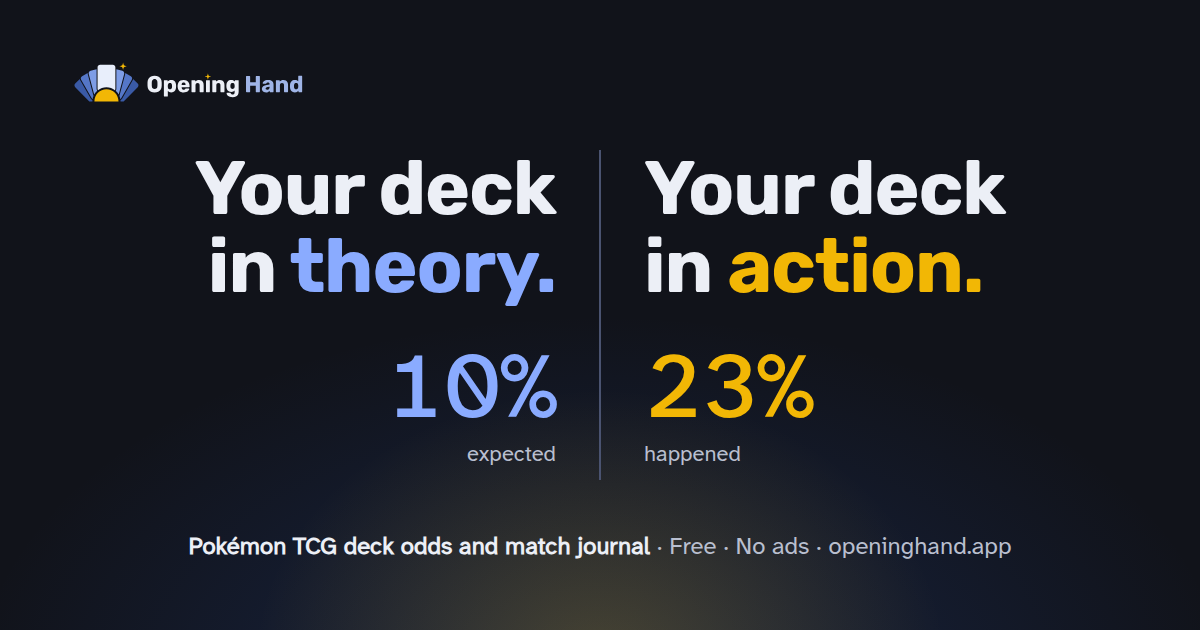
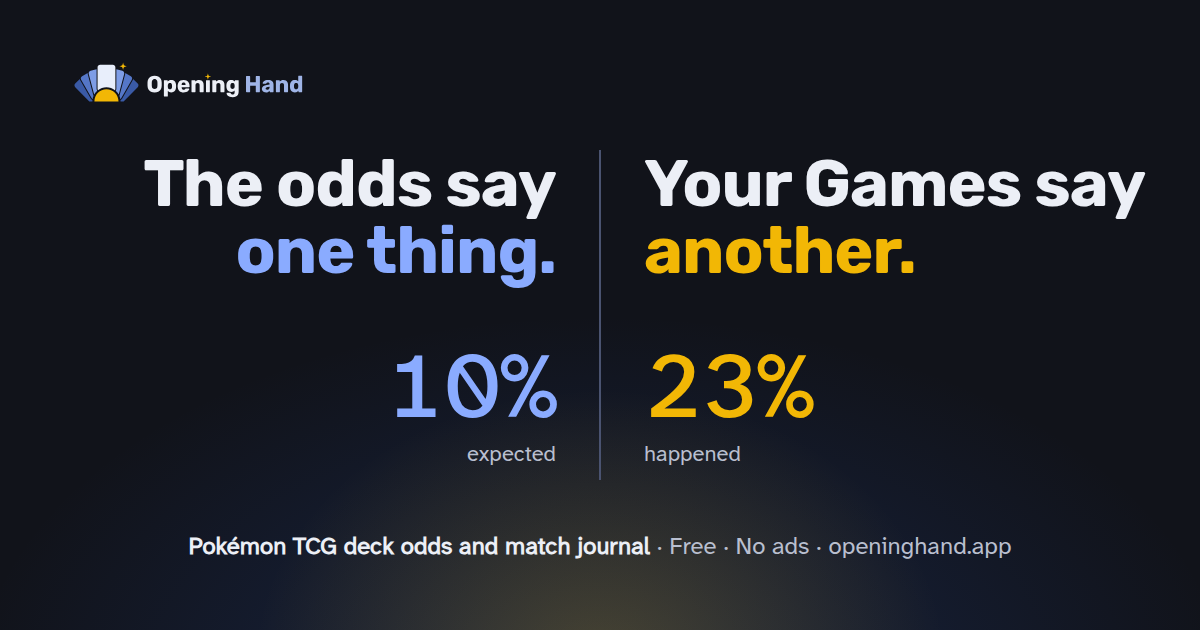
fix: headline

Changed region(s): [[0.5242, 0.2413, 0.9558, 0.4825], [0.1233, 0.2413, 0.4625, 0.4825]]

diff --git a/index.html b/index.html
@@ -23,7 +23,7 @@
 <meta property="og:image" content="https://openinghand.app/og-image.png">
 <meta property="og:image:width" content="1200">
 <meta property="og:image:height" content="630">
-<meta property="og:image:alt" content="Opening Hand: your deck in theory, your deck in action.">
+<meta property="og:image:alt" content="Opening Hand: the odds say one thing, your Games say another.">
 <meta name="twitter:card" content="summary_large_image">
 </head>
 <body>
@@ -40,8 +40,8 @@
 
 
       <h1 id="h1" class="split">
-        <span class="t">Your deck <span class="l2">in <em>theory.</em></span></span>
-        <span class="a">Your deck <span class="l2">in <em>action.</em></span></span>
+        <span class="t">The odds say <span class="l2"><em>one thing.</em></span></span>
+        <span class="a">Your Games say <span class="l2"><em>another.</em></span></span>
       </h1>
       <p class="lede">Opening Hand deals your deck thousands of times to show what should happen, and keeps a journal of what did.</p>
 
